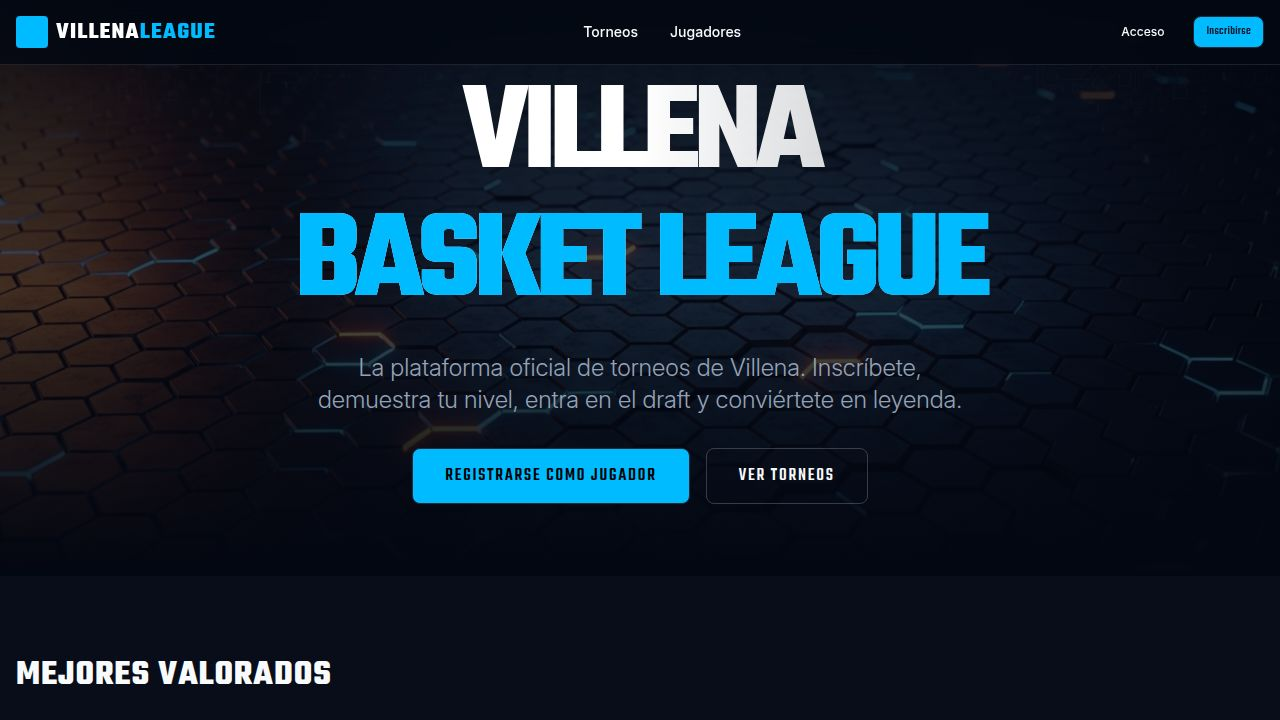
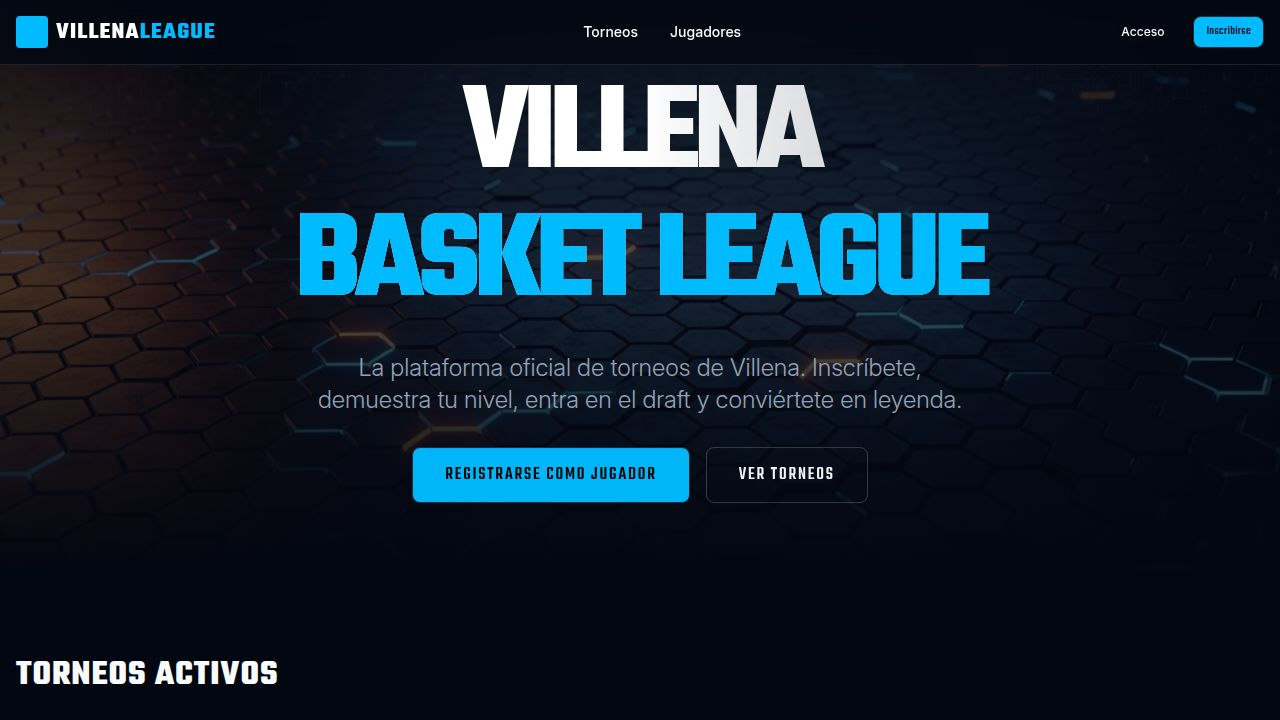
Remove unused team management features and update player data privacy
Remove deprecated team creation and deletion functions, along with related state variables and imports from the admin dashboard. Enhance user privacy by masking sensitive player information like mobile numbers and avatars for unauthenticated users in API responses.

Replit-Commit-Author: Agent
Replit-Commit-Session-Id: 2d4cdcdd-c4e1-4d01-9746-3b57f3436810
Replit-Commit-Checkpoint-Type: full_checkpoint
Replit-Commit-Event-Id: 39e8aec3-9768-42fb-9209-b8427f811d10
Replit-Commit-Screenshot-Url: https://storage.googleapis.com/screenshot-production-us-central1/0a012e52-7131-448a-931c-c3b92679408d/2d4cdcdd-c4e1-4d01-9746-3b57f3436810/ViSTwTk
Replit-Helium-Checkpoint-Created: true

Changed region(s): [[0.3438, 0.6111, 0.5312, 0.7028], [0.0, 0.9167, 0.2812, 0.9472], [0.5625, 0.6417, 0.6562, 0.6722]]

diff --git a/client/src/pages/AdminDashboard.tsx b/client/src/pages/AdminDashboard.tsx
@@ -4,13 +4,12 @@ import { Navbar } from "@/components/Navbar";
 import { Button } from "@/components/ui/button";
 import { Input } from "@/components/ui/input";
 import { Card, CardContent, CardHeader, CardTitle } from "@/components/ui/card";
-import { Tabs, TabsContent, TabsList, TabsTrigger } from "@/components/ui/tabs";
 import { Table, TableBody, TableCell, TableHead, TableHeader, TableRow } from "@/components/ui/table";
 import { Dialog, DialogContent, DialogHeader, DialogTitle, DialogTrigger } from "@/components/ui/dialog";
 import { Badge } from "@/components/ui/badge";
 import { Select, SelectContent, SelectItem, SelectTrigger, SelectValue } from "@/components/ui/select";
 import { useToast } from "@/hooks/use-toast";
-import { teamsApi, playersApi, tournamentsApi, draftApi, type Team } from "@/lib/api";
+import { playersApi, tournamentsApi, draftApi } from "@/lib/api";
 import { Link } from "wouter";
 import { Calendar, MapPin, Users, Play, Eye, Settings, Trophy, Clock } from "lucide-react";
 
@@ -46,10 +45,6 @@ export default function AdminDashboard() {
   const [editTournamentMaxTeams, setEditTournamentMaxTeams] = useState("");
   const [isEditDialogOpen, setIsEditDialogOpen] = useState(false);
 
-  const [selectedTournamentForTeams, setSelectedTournamentForTeams] = useState<string>("");
-  const [teamsForTournament, setTeamsForTournament] = useState<Team[]>([]);
-  const [newTeamName, setNewTeamName] = useState("");
-  const [selectedCaptainId, setSelectedCaptainId] = useState("");
 
   const [isCreateTournamentOpen, setIsCreateTournamentOpen] = useState(false);
 
@@ -190,47 +185,6 @@ export default function AdminDashboard() {
     }
   };
 
-  const loadTeams = async (tournamentId: string) => {
-    if (!tournamentId) return;
-    try {
-      const { teams } = await teamsApi.getForTournament(tournamentId);
-      setTeamsForTournament(teams);
-    } catch {
-      setTeamsForTournament([]);
-    }
-  };
-
-  const handleCreateTeam = async () => {
-    if (!selectedTournamentForTeams || !selectedCaptainId || !newTeamName) {
-      toast({ variant: "destructive", title: "Completa todos los campos" });
-      return;
-    }
-    try {
-      await teamsApi.create({
-        tournamentId: selectedTournamentForTeams,
-        captainId: selectedCaptainId,
-        name: newTeamName,
-      });
-      setNewTeamName("");
-      setSelectedCaptainId("");
-      await loadTeams(selectedTournamentForTeams);
-      toast({ title: "Equipo creado" });
-    } catch (error: any) {
-      toast({ variant: "destructive", title: "Error al crear equipo", description: error.message });
-    }
-  };
-
-  const handleDeleteTeam = async (teamId: string) => {
-    if (!confirm("¿Eliminar este equipo?")) return;
-    try {
-      await teamsApi.delete(teamId);
-      await loadTeams(selectedTournamentForTeams);
-      toast({ title: "Equipo eliminado" });
-    } catch (error: any) {
-      toast({ variant: "destructive", title: "Error", description: error.message });
-    }
-  };
-
   const handleDeletePlayer = async (playerId: string) => {
     if (!confirm("¿Eliminar este jugador?")) return;
     try {
@@ -261,8 +215,6 @@ export default function AdminDashboard() {
       </Badge>
     );
   };
-
-  const captains = players.filter(p => p.role === 'captain');
 
   if (isLoading) {
     return (
@@ -512,106 +464,8 @@ export default function AdminDashboard() {
           )}
         </section>
 
-        <Tabs defaultValue="teams" className="w-full">
-          <TabsList className="bg-white/5 border border-white/10 mb-8">
-            <TabsTrigger value="teams" className="cursor-pointer">Equipos</TabsTrigger>
-            <TabsTrigger value="players" className="cursor-pointer">Jugadores</TabsTrigger>
-          </TabsList>
-
-          <TabsContent value="teams">
-            <div className="grid grid-cols-1 md:grid-cols-3 gap-8">
-              <Card className="bg-white/5 border-white/10 h-fit">
-                <CardHeader>
-                  <CardTitle className="font-display">Crear Equipo</CardTitle>
-                </CardHeader>
-                <CardContent className="space-y-4">
-                  <Select onValueChange={(v) => { setSelectedTournamentForTeams(v); loadTeams(v); }}>
-                    <SelectTrigger className="bg-black/20">
-                      <SelectValue placeholder="Selecciona torneo" />
-                    </SelectTrigger>
-                    <SelectContent>
-                      {tournaments.filter(t => t.status === 'draft' || t.status === 'open').map(t => (
-                        <SelectItem key={t.id} value={t.id}>{t.name}</SelectItem>
-                      ))}
-                    </SelectContent>
-                  </Select>
-                  
-                  <Input 
-                    placeholder="Nombre del equipo" 
-                    value={newTeamName} 
-                    onChange={(e) => setNewTeamName(e.target.value)}
-                    className="bg-black/20"
-                    data-testid="input-team-name"
-                  />
-                  
-                  <Select onValueChange={setSelectedCaptainId} value={selectedCaptainId}>
-                    <SelectTrigger className="bg-black/20">
-                      <SelectValue placeholder="Selecciona capitán" />
-                    </SelectTrigger>
-                    <SelectContent>
-                      {captains.map(c => (
-                        <SelectItem key={c.id} value={c.id}>{c.name}</SelectItem>
-                      ))}
-                    </SelectContent>
-                  </Select>
-                  
-                  <Button 
-                    onClick={handleCreateTeam} 
-                    className="w-full font-display cursor-pointer"
-                    data-testid="button-create-team"
-                  >
-                    CREAR EQUIPO
-                  </Button>
-                </CardContent>
-              </Card>
-
-              <Card className="md:col-span-2 bg-white/5 border-white/10">
-                <CardHeader>
-                  <CardTitle className="font-display">Equipos del Torneo</CardTitle>
-                </CardHeader>
-                <CardContent>
-                  {selectedTournamentForTeams ? (
-                    teamsForTournament.length === 0 ? (
-                      <p className="text-muted-foreground text-center py-8">No hay equipos creados</p>
-                    ) : (
-                      <Table>
-                        <TableHeader>
-                          <TableRow className="border-white/10">
-                            <TableHead>Nombre</TableHead>
-                            <TableHead>Capitán</TableHead>
-                            <TableHead>Acciones</TableHead>
-                          </TableRow>
-                        </TableHeader>
-                        <TableBody>
-                          {teamsForTournament.map(team => (
-                            <TableRow key={team.id} className="border-white/10 hover:bg-white/5">
-                              <TableCell className="font-medium">{team.name}</TableCell>
-                              <TableCell>{players.find(p => p.id === team.captainId)?.name || 'N/A'}</TableCell>
-                              <TableCell>
-                                <Button 
-                                  size="sm" 
-                                  variant="ghost" 
-                                  className="text-red-500 cursor-pointer"
-                                  onClick={() => handleDeleteTeam(team.id)}
-                                  data-testid={`button-delete-team-${team.id}`}
-                                >
-                                  Eliminar
-                                </Button>
-                              </TableCell>
-                            </TableRow>
-                          ))}
-                        </TableBody>
-                      </Table>
-                    )
-                  ) : (
-                    <p className="text-muted-foreground text-center py-8">Selecciona un torneo para ver sus equipos</p>
-                  )}
-                </CardContent>
-              </Card>
-            </div>
-          </TabsContent>
-          
-          <TabsContent value="players">
+        <section className="mb-12">
+          <h2 className="text-2xl font-display font-bold mb-6">GESTIÓN DE JUGADORES</h2>
              <Card className="bg-white/5 border-white/10">
                 <CardHeader>
                   <CardTitle className="font-display">Gestión de Usuarios</CardTitle>
@@ -695,8 +549,7 @@ export default function AdminDashboard() {
                   </Table>
                 </CardContent>
               </Card>
-          </TabsContent>
-        </Tabs>
+        </section>
       </div>
 
       <Dialog open={isEditDialogOpen} onOpenChange={setIsEditDialogOpen}>

diff --git a/server/routes.ts b/server/routes.ts
@@ -109,11 +109,11 @@ export async function registerRoutes(
       const players = await storage.getAllPlayers();
       const isAuthenticated = !!req.session.playerId;
       
-      // Don't send passwords to client, hide mobile for non-authenticated users
+      // Don't send passwords to client, hide mobile and avatar for non-authenticated users
       const safePlayers = players.map(p => {
         const { password, ...safe } = p;
         if (!isAuthenticated) {
-          return { ...safe, mobile: "***" };
+          return { ...safe, mobile: "***", avatar: undefined };
         }
         return safe;
       });
@@ -202,8 +202,12 @@ export async function registerRoutes(
       }
 
       const registeredPlayers = await storage.getPlayersForTournament(req.params.id);
+      const isAuthenticated = !!req.session.playerId;
       const safePlayers = registeredPlayers.map(p => {
         const { password, ...safe } = p;
+        if (!isAuthenticated) {
+          return { ...safe, mobile: "***", avatar: undefined };
+        }
         return safe;
       });
 
